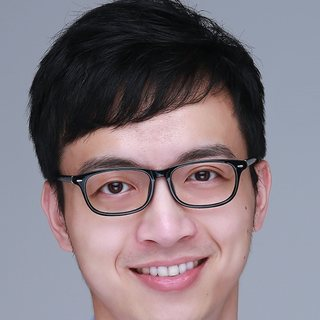
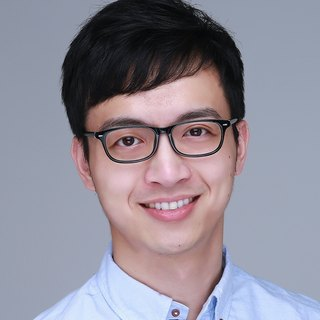
Re-crop Luo Mai's photo wider to show shoulders
Claude-Session: https://claude.ai/code/session_01PJFBo2BTsW4RWpZRcSJiX4

diff --git a/index.html b/index.html
@@ -118,7 +118,7 @@
         <ul class="speakers">
           <li class="speaker">
             <div class="speaker-head">
-              <img class="photo" src="assets/speakers/luo-mai.jpg?v=2" alt="" width="80" height="80">
+              <img class="photo" src="assets/speakers/luo-mai.jpg?v=3" alt="" width="80" height="80">
               <div><h3><a href="https://luomai.github.io/" target="_blank" rel="noopener">Luo Mai<span class="ext" aria-hidden="true">↗</span></a></h3><p class="aff">University of Edinburgh</p></div>
             </div>
             <p class="bio">Luo is an Associate Professor in the School of Informatics at the University of Edinburgh, leading the Large-Scale Machine Learning Systems Group. Luo builds ML systems across models, runtimes and new AI hardware, and co-leads the UK EPSRC Centre for Doctoral Training in Machine Learning Systems and an ARIA project on scaling AI compute.</p>
